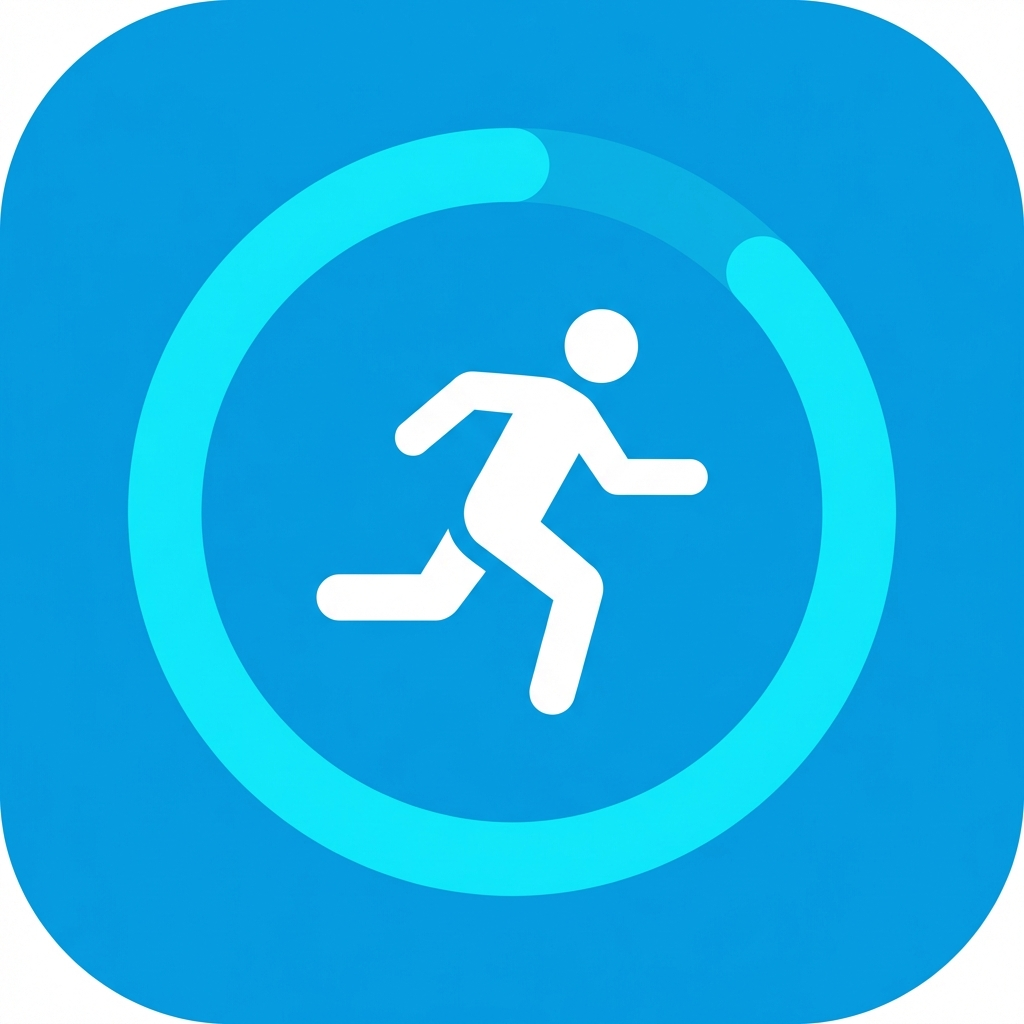
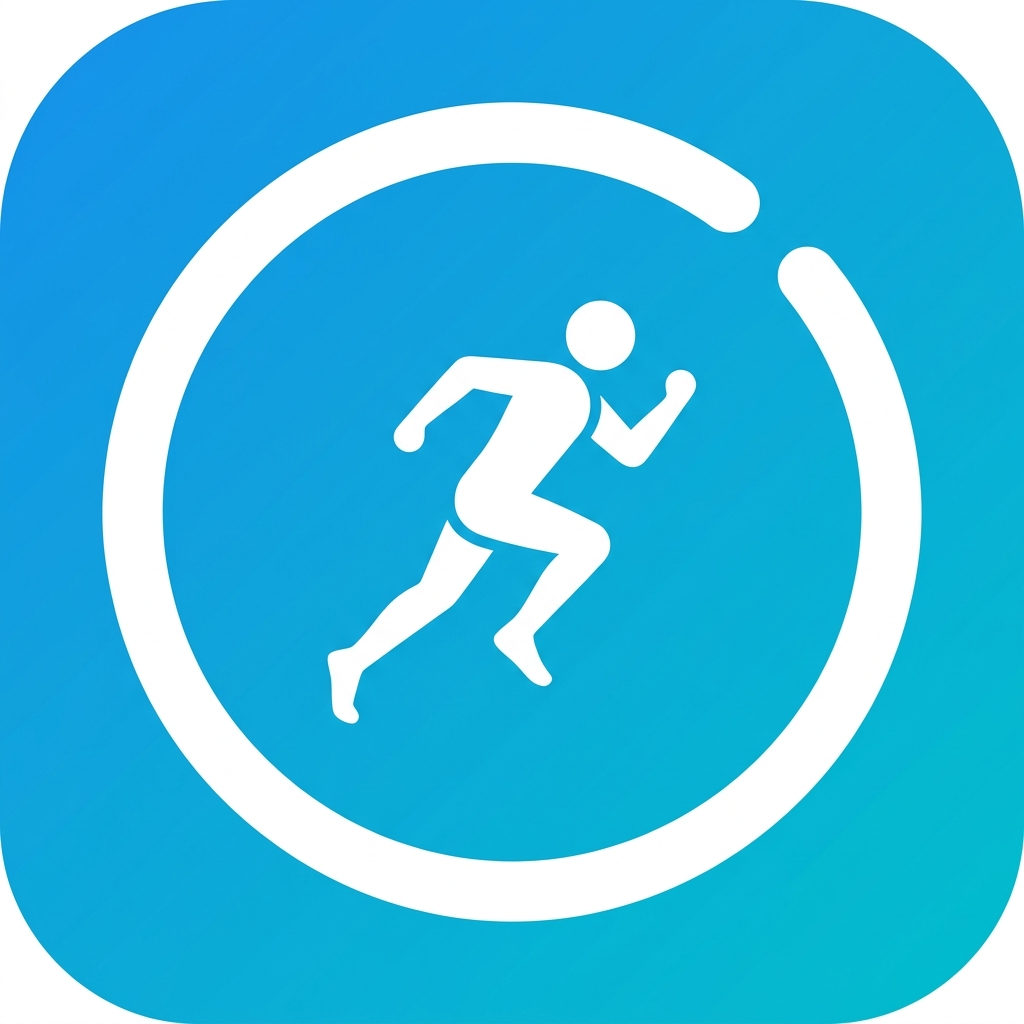
feat: implement BatteryOptimizationService and add Android project assets

diff --git a/fitness-tracker-app/src/services/battery/BatteryOptimizationService.ts b/fitness-tracker-app/src/services/battery/BatteryOptimizationService.ts
@@ -405,8 +405,8 @@ class BatteryOptimizationService {
     );
   }
 
-  private async getPackageName(): Promise<string> {
-    // Get package name from app.json
+  private getPackageName(): string {
+    // Return the correct package name for the Stride app
     return 'com.fittracker.app';
   }
 